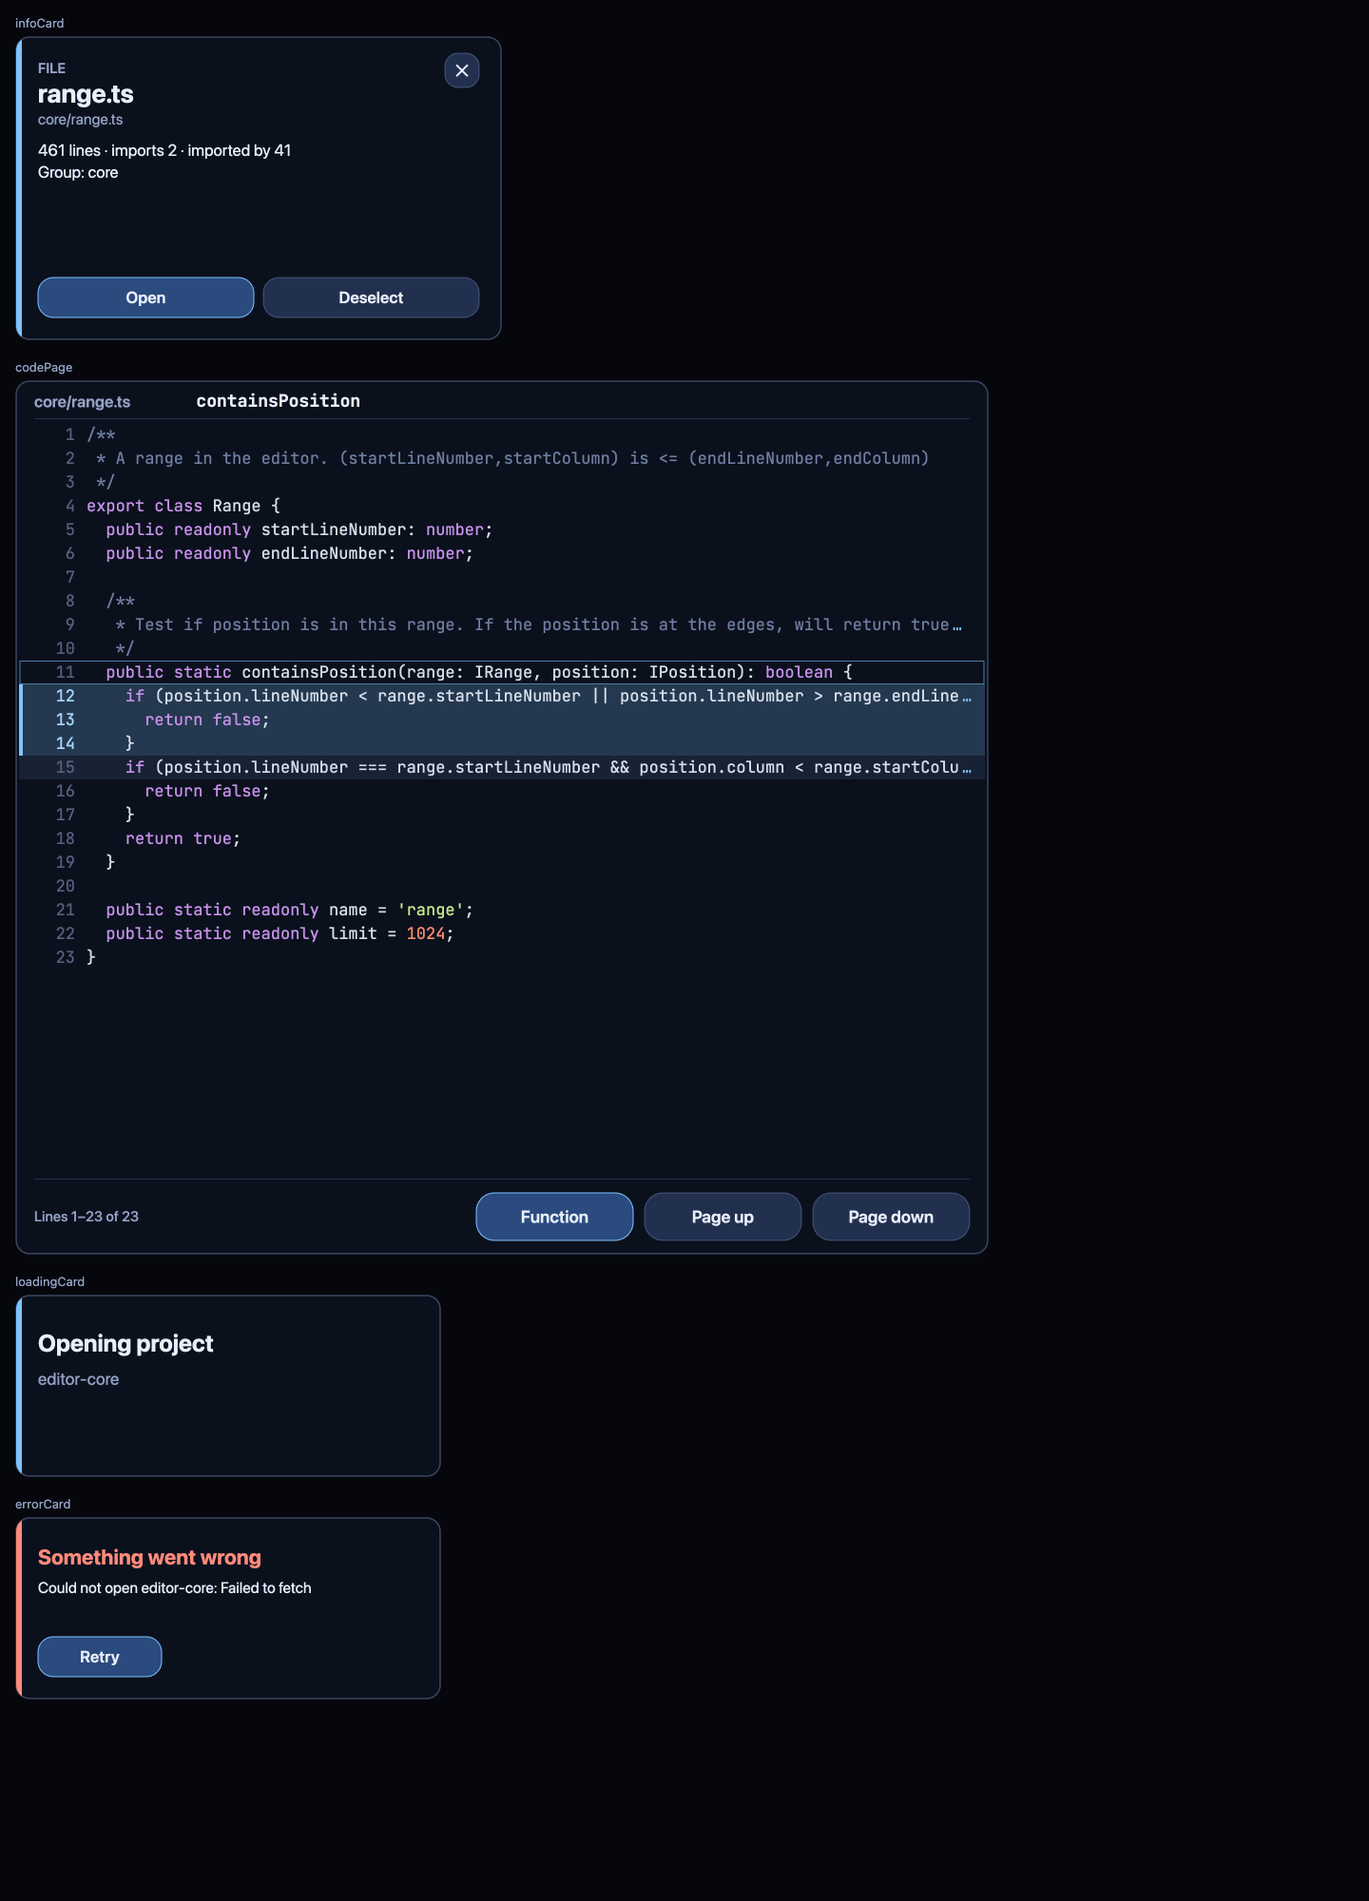
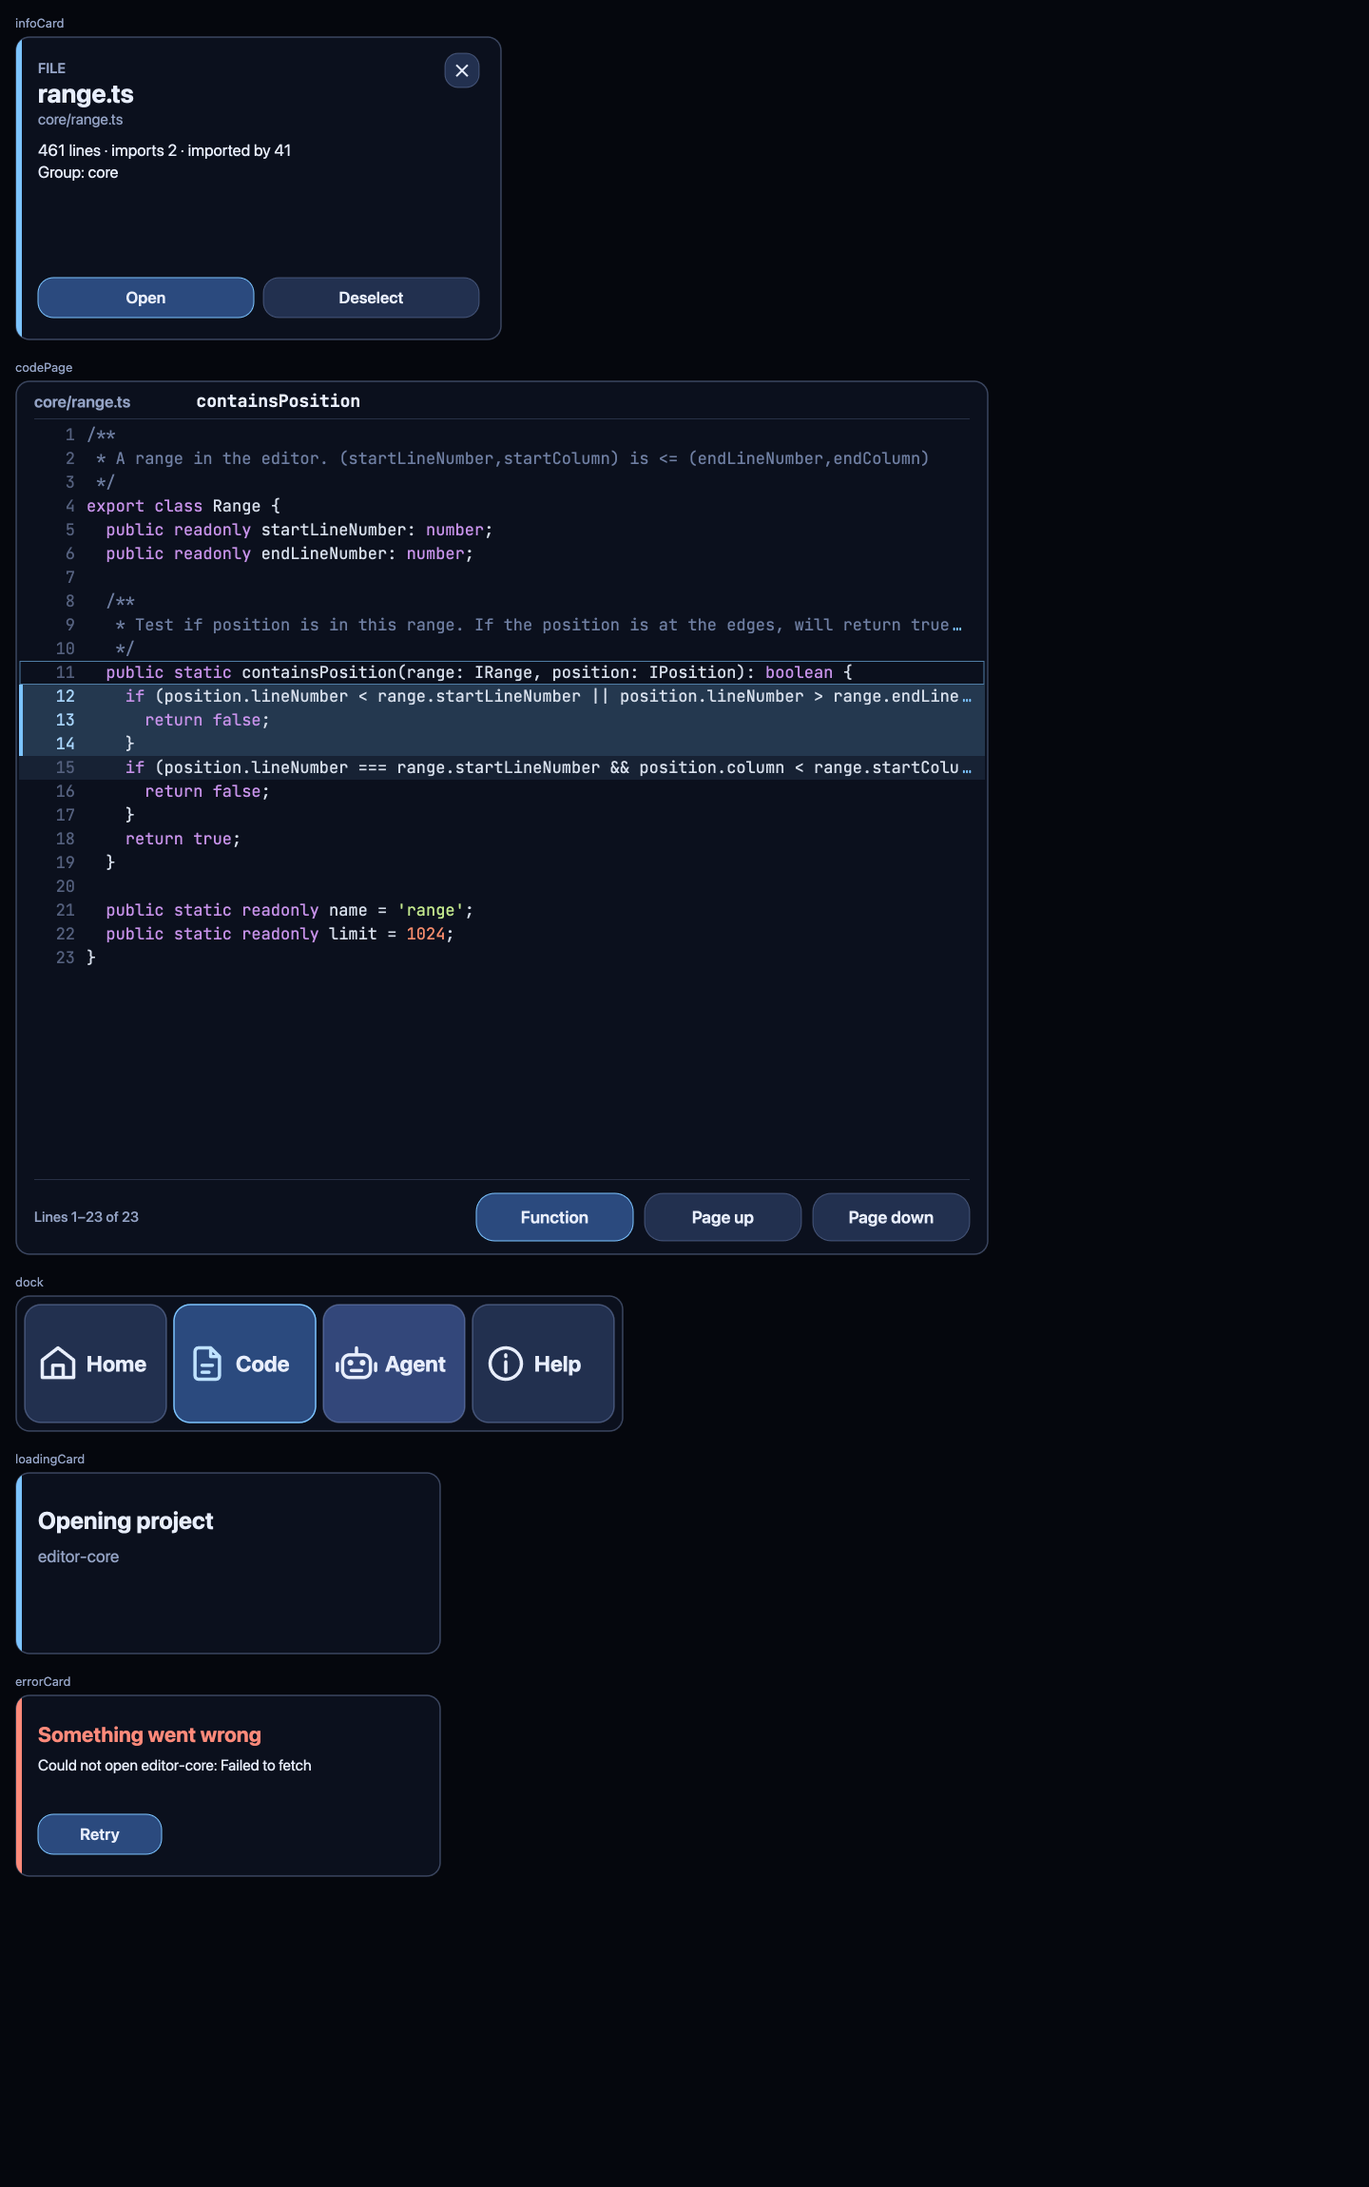
Add the dock and the palm menu
The palm menu is on: in the emulator it shows when the left palm faces the
head (the palm normal is the left grip space's +X), hides when the palm
turns away, and its buttons work with the right hand's ray. The galaxy's
hit volume now yields to any panel on the ray (pointer order -1): the dock
sits inside it and its Home press had gone to the galaxy.

diff --git a/src/systems/dock-system.ts b/src/systems/dock-system.ts
@@ -1,0 +1,90 @@
+// The dock at the table's edge and the palm menu: the same four buttons (Home, Code, Agent, Help). The palm menu shows
+// 8 cm off the left palm while the palm faces the head (within 40°, held 0.3 s), and is pressed with the right hand's
+// ray. state.palmMenu switches it off.
+import { Quaternion, Vector3, createSystem } from '@iwsdk/core';
+import { iconPaths } from '../galaxy-bridge/icons.ts';
+import { CanvasPanel } from '../panels/canvas-panel.ts';
+import { DOCK, DOCK_BUTTONS, PALM_MENU, drawDock } from '../panels/draw-dock.ts';
+import type { DockButton } from '../panels/draw-dock.ts';
+import { agentOpen, codePageOpen, palmMenu } from '../state/app-state.ts';
+import { goHome, showHelp, toggleAgent, toggleCode } from '../state/commands.ts';
+import { headPosition } from './head.ts';
+import { PLACEMENTS, place } from './panel-system.ts';
+
+const PALM_COS = Math.cos((40 * Math.PI) / 180),
+  PALM_HOLD = 0.3,
+  PALM_LIFT = 0.08;
+/** The palm's outward normal in the left grip space (confirmed in the emulator: see Task 16 notes). */
+export const LEFT_PALM_AXIS = new Vector3(1, 0, 0);
+
+export class DockSystem extends createSystem({}) {
+  private dock!: CanvasPanel;
+  private palm!: CanvasPanel;
+  private icons: Record<string, string[]> = {};
+  private held = 0;
+  private head!: Vector3;
+  private grip!: Vector3;
+  private normal!: Vector3;
+  private toHead!: Vector3;
+  private turn!: Quaternion;
+
+  init() {
+    this.head = new Vector3();
+    this.grip = new Vector3();
+    this.normal = new Vector3();
+    this.toHead = new Vector3();
+    this.turn = new Quaternion();
+    for (const b of DOCK_BUTTONS) this.icons[b.icon] = iconPaths(b.icon);
+    const press = (id: string) => {
+      const button = id as DockButton;
+      if (button === 'home') goHome();
+      else if (button === 'code') toggleCode();
+      else if (button === 'agent') toggleAgent();
+      else if (button === 'help') showHelp();
+    };
+    this.dock = new CanvasPanel({ name: 'dock', ...DOCK, renderer: this.renderer }).attach(this.world);
+    place(this.dock, PLACEMENTS.dock);
+    this.palm = new CanvasPanel({ name: 'palm-menu', ...PALM_MENU, renderer: this.renderer }).attach(this.world);
+    this.palm.visible = false;
+    for (const panel of [this.dock, this.palm]) {
+      panel.onPress = press;
+      panel.onHover = () => this.draw();
+    }
+    this.cleanupFuncs.push(
+      codePageOpen.subscribe(() => this.draw()),
+      agentOpen.subscribe(() => this.draw()),
+      () => {
+        this.dock.dispose();
+        this.palm.dispose();
+      },
+    );
+  }
+
+  private draw() {
+    const on = { code: codePageOpen.peek(), agent: agentOpen.peek() };
+    this.dock.redraw((ctx, w, h) => drawDock(ctx, w, h, { hovered: this.dock.hovered, on, icons: this.icons }));
+    this.palm.redraw((ctx, w, h) => drawDock(ctx, w, h, { hovered: this.palm.hovered, on, icons: this.icons }));
+  }
+
+  update(delta: number) {
+    const facing = palmMenu.peek() && this.renderer.xr.isPresenting && this.palmFacesHead();
+    this.held = facing ? this.held + delta : 0;
+    const show = this.held >= PALM_HOLD;
+    this.palm.visible = show;
+    if (show) {
+      this.palm.mesh.position.copy(this.grip).addScaledVector(this.normal, PALM_LIFT);
+      this.palm.mesh.lookAt(this.head);
+    }
+  }
+
+  /** Whether the left palm's normal is within 40° of the direction to the head (fills grip, normal and head). */
+  private palmFacesHead() {
+    const grip = this.player.gripSpaces.left;
+    if (!grip) return false;
+    grip.getWorldPosition(this.grip);
+    this.normal.copy(LEFT_PALM_AXIS).applyQuaternion(grip.getWorldQuaternion(this.turn));
+    headPosition(this.renderer, this.player, this.camera, this.head);
+    this.toHead.copy(this.head).sub(this.grip).normalize();
+    return this.normal.dot(this.toHead) >= PALM_COS;
+  }
+}

diff --git a/src/panels/draw-dock.ts b/src/panels/draw-dock.ts
@@ -1,0 +1,62 @@
+// The dock: four large buttons with icons and words, Home, Code, Agent and Help. The same drawing serves the strip at
+// the table's edge and the palm menu.
+import type { HitRegion } from '../core/panel-hit.ts';
+import { COLORS, UI_FONT, panelBackground, roundRect } from './paint.ts';
+
+export const DOCK = { widthPx: 1280, heightPx: 288, widthM: 0.4, heightM: 0.09 };
+export const PALM_MENU = { widthPx: 1280, heightPx: 288, widthM: 0.2, heightM: 0.045 };
+
+export type DockButton = 'home' | 'code' | 'agent' | 'help';
+export const DOCK_BUTTONS: { id: DockButton; label: string; icon: string }[] = [
+  { id: 'home', label: 'Home', icon: 'home' },
+  { id: 'code', label: 'Code', icon: 'file' },
+  { id: 'agent', label: 'Agent', icon: 'agents' },
+  { id: 'help', label: 'Help', icon: 'info' },
+];
+
+export interface DockState {
+  hovered: string | null;
+  /** Buttons whose panel is open (drawn lit). */
+  on: Partial<Record<DockButton, boolean>>;
+  /** Icon outlines per icon name, in a 24-unit box (from src/galaxy-bridge/icons.ts). */
+  icons: Record<string, string[]>;
+}
+
+export function drawDock(ctx: CanvasRenderingContext2D, w: number, h: number, state: DockState): HitRegion[] {
+  panelBackground(ctx, w, h);
+  const pad = 20,
+    gap = 16,
+    bw = (w - pad * 2 - gap * 3) / 4,
+    bh = h - pad * 2;
+  return DOCK_BUTTONS.map((b, k) => {
+    const x = pad + k * (bw + gap),
+      y = pad,
+      hovered = state.hovered === b.id,
+      on = !!state.on[b.id];
+    roundRect(ctx, x, y, bw, bh, 34);
+    ctx.fillStyle = hovered ? COLORS.buttonHover : on ? '#2b4a7e' : COLORS.button;
+    ctx.fill();
+    ctx.lineWidth = 3;
+    ctx.strokeStyle = on ? COLORS.accent : COLORS.border;
+    ctx.stroke();
+    // Icon: the 24-unit box scaled to 104 px, stroked.
+    const size = 88,
+      ix = x + 26,
+      iy = y + (bh - size) / 2;
+    ctx.save();
+    ctx.translate(ix, iy);
+    ctx.scale(size / 24, size / 24);
+    ctx.lineWidth = 1.9;
+    ctx.lineCap = 'round';
+    ctx.lineJoin = 'round';
+    ctx.strokeStyle = on ? '#bfe2ff' : COLORS.text;
+    for (const d of state.icons[b.icon] ?? []) ctx.stroke(new Path2D(d));
+    ctx.restore();
+    ctx.fillStyle = COLORS.text;
+    ctx.font = `700 46px ${UI_FONT}`;
+    ctx.textBaseline = 'middle';
+    ctx.fillText(b.label, ix + size + 16, y + bh / 2 + 2);
+    ctx.textBaseline = 'alphabetic';
+    return { id: b.id, x, y, w: bw, h: bh };
+  });
+}

diff --git a/src/galaxy-bridge/icons.ts b/src/galaxy-bridge/icons.ts
@@ -1,0 +1,31 @@
+// The copied icon set (galaxy/viewer/shared/ui-icons.js) as path strings for the 2D canvas. Each icon is SVG markup
+// in a 24-unit box; paths pass through, and circles, ellipses, rectangles and lines become equivalent paths.
+import { UIIcons } from './galaxy-session.js';
+
+const attr = (tag: string, name: string) => Number(tag.match(new RegExp(`\\b${name}="([^"]*)"`))?.[1] ?? 0);
+
+function ellipsePath(cx: number, cy: number, rx: number, ry: number) {
+  return `M${cx - rx} ${cy}a${rx} ${ry} 0 1 0 ${rx * 2} 0a${rx} ${ry} 0 1 0 ${-rx * 2} 0Z`;
+}
+
+function rectPath(x: number, y: number, w: number, h: number, r: number) {
+  if (!r) return `M${x} ${y}h${w}v${h}h${-w}Z`;
+  return `M${x + r} ${y}h${w - 2 * r}a${r} ${r} 0 0 1 ${r} ${r}v${h - 2 * r}a${r} ${r} 0 0 1 ${-r} ${r}h${-(w - 2 * r)}a${r} ${r} 0 0 1 ${-r} ${-r}v${-(h - 2 * r)}a${r} ${r} 0 0 1 ${r} ${-r}Z`;
+}
+
+/** The icon's outline as SVG path strings in a 24-unit box (draw with `new Path2D(d)`, stroked). */
+export function iconPaths(name: string): string[] {
+  const out: string[] = [];
+  for (const [tag] of UIIcons.shape(name).matchAll(/<(path|circle|ellipse|rect|line|polyline)\b[^>]*>/g)) {
+    if (tag.startsWith('<path')) out.push(tag.match(/\bd="([^"]*)"/)?.[1] ?? '');
+    else if (tag.startsWith('<circle')) out.push(ellipsePath(attr(tag, 'cx'), attr(tag, 'cy'), attr(tag, 'r'), attr(tag, 'r')));
+    else if (tag.startsWith('<ellipse'))
+      out.push(ellipsePath(attr(tag, 'cx'), attr(tag, 'cy'), attr(tag, 'rx'), attr(tag, 'ry')));
+    else if (tag.startsWith('<rect'))
+      out.push(rectPath(attr(tag, 'x'), attr(tag, 'y'), attr(tag, 'width'), attr(tag, 'height'), attr(tag, 'rx')));
+    else if (tag.startsWith('<line'))
+      out.push(`M${attr(tag, 'x1')} ${attr(tag, 'y1')}L${attr(tag, 'x2')} ${attr(tag, 'y2')}`);
+    else if (tag.startsWith('<polyline')) out.push(`M${tag.match(/\bpoints="([^"]*)"/)?.[1] ?? ''}`);
+  }
+  return out.filter(Boolean);
+}

diff --git a/src/state/commands.ts b/src/state/commands.ts
@@ -1,6 +1,6 @@
 // Typed commands: the only way panels, gestures and tests ask the app to change. The galaxy system connects the
 // handler that carries them out; until it does, a command does nothing.
-import { codePageOpen, codeRequest, dataset, pinned } from './app-state.ts';
+import { agentOpen, codePageOpen, codeRequest, dataset, pinned, tutorialRestarts } from './app-state.ts';
 
 export interface CommandHandler {
   openDataset(name: string): void;
@@ -45,6 +45,19 @@ export function showCode(path: string, line: number): void {
   handler?.landOn(path, line);
 }
 
+/** Shows or hides the code page. */
+export function toggleCode(): void {
+  codePageOpen.value = !codePageOpen.peek();
+}
+/** Opens or closes the agent panel. */
+export function toggleAgent(): void {
+  agentOpen.value = !agentOpen.peek();
+}
+/** Starts the tutorial again. */
+export function showHelp(): void {
+  tutorialRestarts.value = tutorialRestarts.peek() + 1;
+}
+
 /** Closes the pinned info card. */
 export function closeCard(): void {
   pinned.value = null;
@@ -54,5 +67,17 @@ export function retry(): void {
   if (dataset.peek()) openDataset(dataset.peek()!);
 }
 
-export const commands = { openDataset, selectFile, landOn, leavePlanet, goHome, showCode, closeCard, retry };
+export const commands = {
+  openDataset,
+  selectFile,
+  landOn,
+  leavePlanet,
+  goHome,
+  showCode,
+  toggleCode,
+  toggleAgent,
+  showHelp,
+  closeCard,
+  retry,
+};
 export type Commands = typeof commands;

diff --git a/src/panels/test-page.ts b/src/panels/test-page.ts
@@ -5,6 +5,8 @@ import { visibleLines } from '../core/code-view.ts';
 import type { CodeView, Segment } from '../core/code-view.ts';
 import { loadCodeFont } from './code-font.ts';
 import { CODE_LAYOUT, CODE_PAGE, drawCodePage } from './draw-code-page.ts';
+import { iconPaths } from '../galaxy-bridge/icons.ts';
+import { DOCK, DOCK_BUTTONS, drawDock } from './draw-dock.ts';
 import { INFO_CARD, drawInfoCard } from './draw-info-card.ts';
 import { STATUS_CARD, drawStatusCard } from './draw-status-card.ts';
 
@@ -94,6 +96,8 @@ export async function drawAll() {
       hovered: 'line:11',
     });
   });
+  const icons = Object.fromEntries(DOCK_BUTTONS.map(b => [b.icon, iconPaths(b.icon)]));
+  show('dock', DOCK.widthPx, DOCK.heightPx, (ctx, w, h) => drawDock(ctx, w, h, { hovered: 'agent', on: { code: true }, icons }));
   show('loadingCard', STATUS_CARD.widthPx, STATUS_CARD.heightPx, (ctx, w, h) =>
     drawStatusCard(ctx, w, h, { kind: 'loading', title: 'Opening project', detail: 'editor-core' }),
   );

diff --git a/src/state/app-state.ts b/src/state/app-state.ts
@@ -27,6 +27,12 @@ export const codeRequest = signal<{ path: string; line: number } | null>(null);
 export const codeScroll = signal(0);
 /** Whether the code page is shown when there is code to show (the dock's Code button). */
 export const codePageOpen = signal(true);
+/** Whether the agent panel is open (the next plan builds it). */
+export const agentOpen = signal(false);
+/** Bumped to restart the tutorial (the dock's Help button). */
+export const tutorialRestarts = signal(0);
+/** Whether the palm menu is enabled (see DockSystem). */
+export const palmMenu = signal(true);
 export const inspectorExtras = signal<Record<string, unknown[]>>({});
 
 export const appState = {
@@ -42,6 +48,9 @@ export const appState = {
   codeScroll,
   codePageOpen,
   codeRequest,
+  agentOpen,
+  tutorialRestarts,
+  palmMenu,
   inspectorExtras,
 };
 export type AppState = typeof appState;

diff --git a/src/index.ts b/src/index.ts
@@ -6,12 +6,14 @@ import { appState } from './state/app-state.ts';
 import { commands } from './state/commands.ts';
 import { GalaxySystem } from './systems/galaxy-system.ts';
 import { ManipulationSystem } from './systems/manipulation-system.ts';
+import { DockSystem } from './systems/dock-system.ts';
 import { PanelSystem } from './systems/panel-system.ts';
 
 World.create(document.getElementById('scene-container') as HTMLDivElement, projectOptions).then(world => {
   world.registerSystem(GalaxySystem);
   world.registerSystem(ManipulationSystem);
   world.registerSystem(PanelSystem);
+  world.registerSystem(DockSystem);
   const galaxy = world.getSystem(GalaxySystem)!;
   window.__orrery = {
     world,

diff --git a/src/galaxy-bridge/pointer-bridge.ts b/src/galaxy-bridge/pointer-bridge.ts
@@ -30,6 +30,8 @@ export function bridgePointer(world: World, group: Object3D, kit: XrSceneKit): (
   const volume = new Mesh(new BoxGeometry(...HIT_VOLUME.size), material);
   volume.name = 'galaxy-hit-volume';
   volume.position.set(...HIT_VOLUME.center);
+  // Panels (the dock, cards, the code page) sit inside this volume; any panel on the ray wins over the galaxy.
+  (volume as unknown as { pointerEventsOrder: number }).pointerEventsOrder = -1;
   const entity = world.createTransformEntity(volume);
   entity.addComponent(RayInteractable);
 

diff --git a/src/galaxy-bridge/galaxy-session.js b/src/galaxy-bridge/galaxy-session.js
@@ -22,6 +22,7 @@ export { G, actions, projects } from '../../galaxy/viewer/app/state.ts';
 export { planetBuildBudget } from '../../galaxy/viewer/shared/build-budget.js';
 export { languageOf } from '../../galaxy/source-model/languages.js';
 export { loadTypeScript } from '../../galaxy/viewer/towns/town-assets.js';
+export { UIIcons } from '../../galaxy/viewer/shared/ui-icons.js';
 
 /** The copied code's shared state (files, links, the running view). */
 export const galaxyState = state;

diff --git a/src/galaxy-bridge/galaxy-session.d.ts b/src/galaxy-bridge/galaxy-session.d.ts
@@ -52,3 +52,5 @@ export function planetBuildBudget(
 export function languageOf(path: string): { frontEnd?: string; [member: string]: unknown } | null | undefined;
 /** Loads the vendored TypeScript compiler as window.ts (once). */
 export function loadTypeScript(): Promise<unknown>;
+/** The copied icon set: shape(name) is the SVG markup inside a 24-unit viewBox. */
+export const UIIcons: { shape(name: string): string };

diff --git a/docs/plans/m1-m2-galaxy-and-code.md b/docs/plans/m1-m2-galaxy-and-code.md
@@ -362,10 +362,10 @@ A landed planet is an "overlay": an object with `scene`, `camera`, `frame()` ret
 
 **Files:** Create `src/panels/draw-dock.ts`, `src/systems/dock-system.ts`.
 
-- [ ] **Step 1. Dock.** A low strip at the front edge of the table with four large buttons with icons and words: `Home`, `Code`, `Agent`, `Help`. Icons come from `UIIcons.shape(name)` in `galaxy/viewer/shared/ui-icons.js`, which returns SVG markup; draw each `<path d="…">` with `new Path2D(d)` scaled from its 24-unit box (import the module through `src/galaxy-bridge/icons.ts`, since only the bridge may import `galaxy/`). `Home` calls `goHome()`; `Code` shows or hides the code page; `Agent` toggles a signal the next plan uses; `Help` restarts the tutorial.
-- [ ] **Step 2. Palm menu.** When the left palm faces the head (the left grip space's palm normal within 40° of the direction to the head, held for 0.3 s) show the same four buttons 8 cm above the palm, pressed with the right hand's ray. Hide it when the palm turns away. If the emulator cannot confirm the palm direction (check with `.claude/skills/iwsdk-grab/SKILL.md` in hand mode), keep the code but leave it switched off behind `state.palmMenu`, and say so in the report: the dock alone is enough.
-- [ ] **Step 3. Check.** `npm run verify`; panels screenshot shows the dock with four labelled icons. In the emulator, select `Home` with a ray: the phase returns to `overview`.
-- [ ] **Step 4. Commit:** `Add the dock and the palm menu`
+- [x] **Step 1. Dock.** A low strip at the front edge of the table with four large buttons with icons and words: `Home`, `Code`, `Agent`, `Help`. Icons come from `UIIcons.shape(name)` in `galaxy/viewer/shared/ui-icons.js`, which returns SVG markup; draw each `<path d="…">` with `new Path2D(d)` scaled from its 24-unit box (import the module through `src/galaxy-bridge/icons.ts`, since only the bridge may import `galaxy/`). `Home` calls `goHome()`; `Code` shows or hides the code page; `Agent` toggles a signal the next plan uses; `Help` restarts the tutorial.
+- [x] **Step 2. Palm menu.** When the left palm faces the head (the left grip space's palm normal within 40° of the direction to the head, held for 0.3 s) show the same four buttons 8 cm above the palm, pressed with the right hand's ray. Hide it when the palm turns away. If the emulator cannot confirm the palm direction (check with `.claude/skills/iwsdk-grab/SKILL.md` in hand mode), keep the code but leave it switched off behind `state.palmMenu`, and say so in the report: the dock alone is enough.
+- [x] **Step 3. Check.** `npm run verify`; panels screenshot shows the dock with four labelled icons. In the emulator, select `Home` with a ray: the phase returns to `overview`.
+- [x] **Step 4. Commit:** `Add the dock and the palm menu`
 
 ### Task 17: Choosing a project
 
